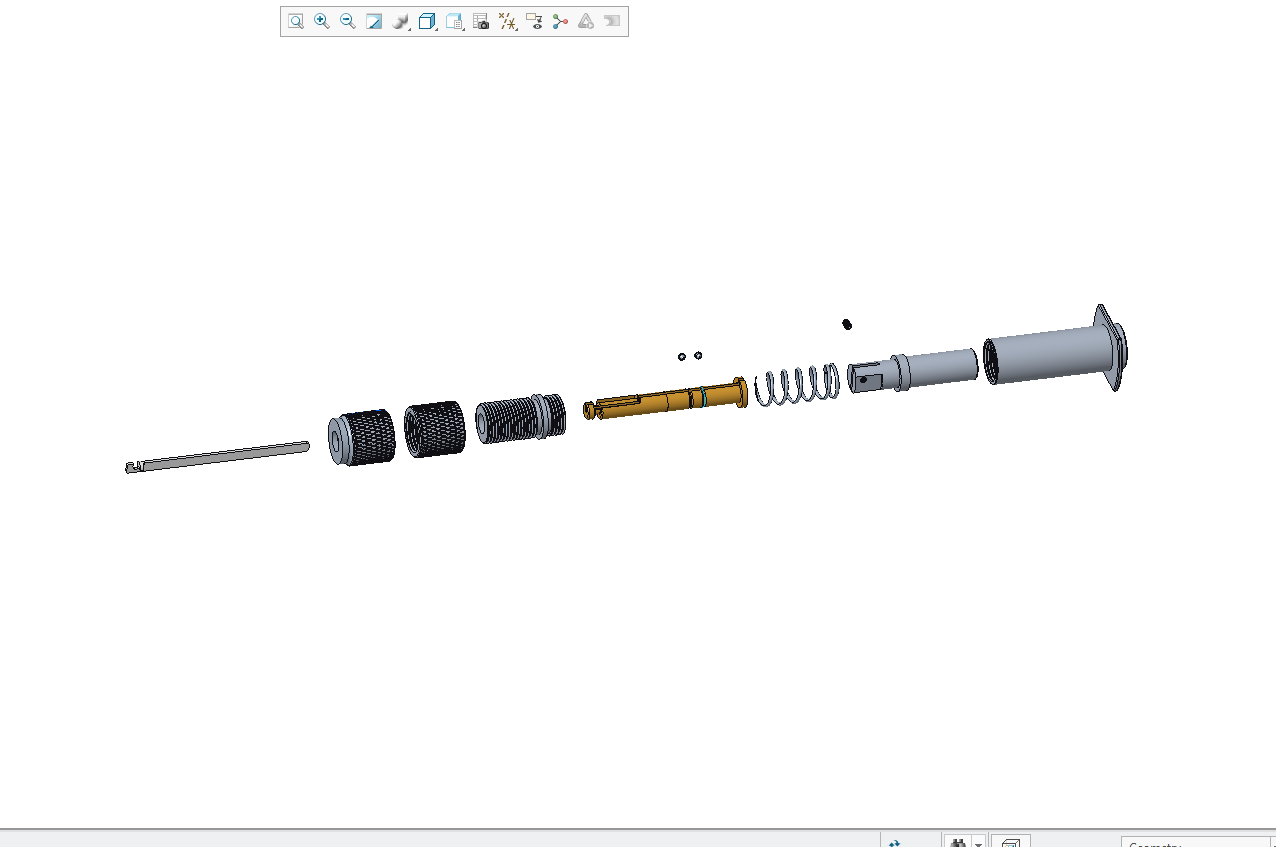
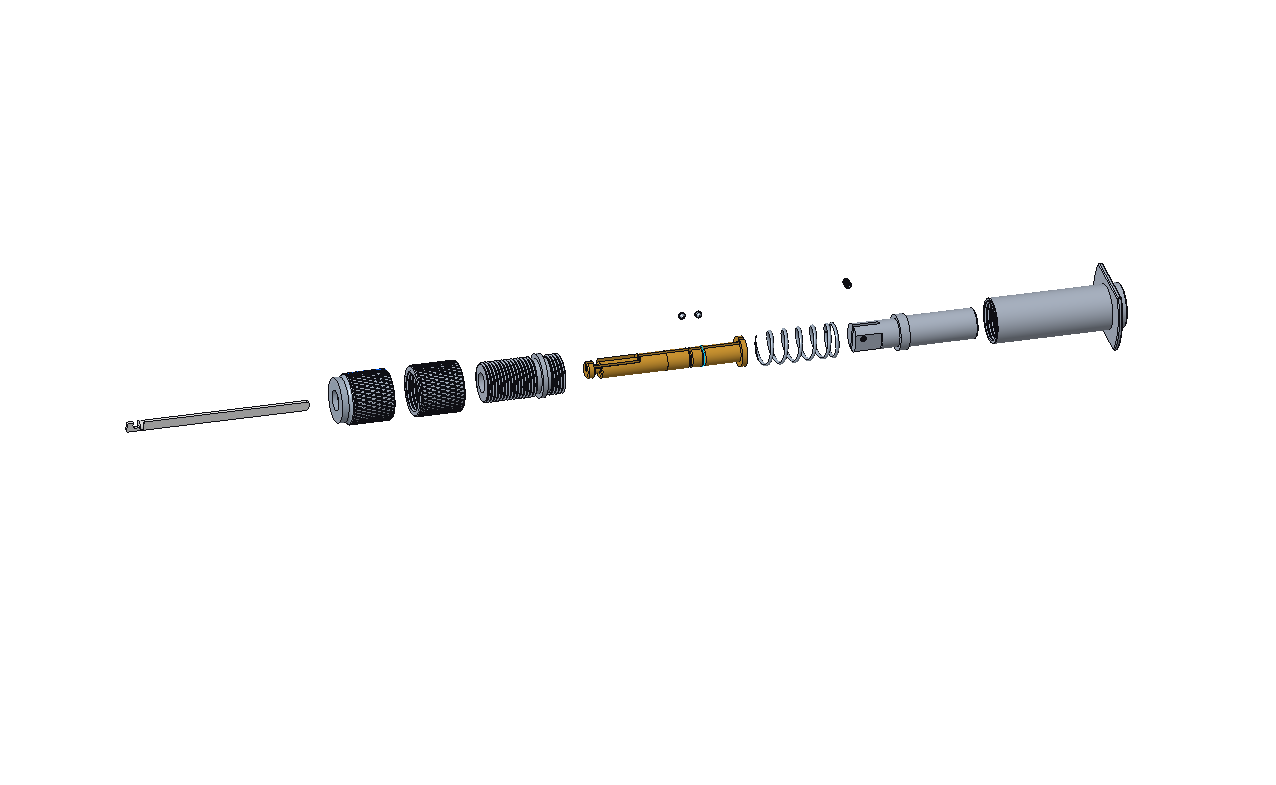
oring_update_2

Changed region(s): [[0.0917, 0.3363, 0.8864, 0.5809], [0.0, 0.9783, 1.0, 1.0], [0.2139, 0.0, 0.489, 0.0611]]

diff --git a/src/data/projects.ts b/src/data/projects.ts
@@ -60,7 +60,7 @@ export const projectCategories: ProjectCategory[] = [
   slug: "metal-lok-ultra-lite",
   status: "In Progress",
 
-  context: "BIW",
+  context: "BIW Connector Systems",
   date: "Summer 2026",
   team: "Product Design Engineering Team",
 
@@ -281,7 +281,7 @@ export const projectCategories: ProjectCategory[] = [
   slug: "o-ring-installation-tool",
   status: "Completed",
 
-  context: "BIW Connector Systems · ITT Inc.",
+  context: "BIW Connector Systems",
   date: "Summer 2026",
   team: "Product Design Engineering",
 
